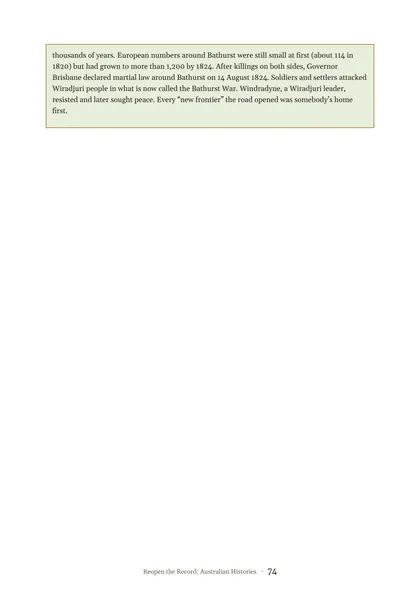
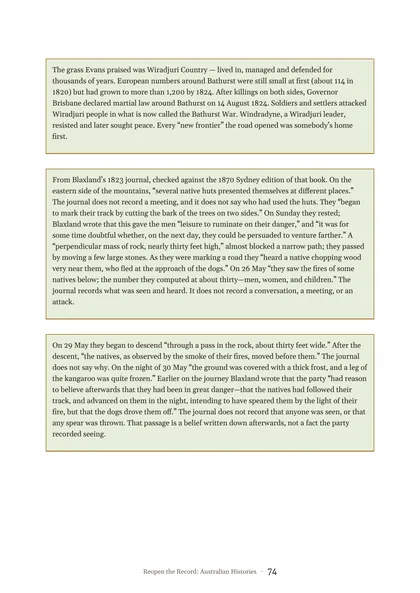
Add Blaxland journal details to the Blue Mountains case pages.
The case still runs from page 70 to 84; later page numbers are unchanged.

diff --git a/assets/data.js b/assets/data.js
@@ -1596,8 +1596,8 @@ window.BOOK = {
     "70": "The Blue Mountains envelope: Crossing the Blue Mountains, 1813. A manila exhibit envelope with a label asking “Who really found the way across the Blue Mountains — and what did “opening the interior” open up?”.",
     "71": "Page 71. Crossing the Blue Mountains. IMAGINED Written for this case, based on real events, not a real document. West of Sydney, looking at the mountains May 1813 · a reconstruction · not a historical document From the colony, the Blue",
     "72": "Page 72. Crossing the Blue Mountains. A NOTE BEFORE YOU READ This case is set on Darug, Gundungurra and Wiradjuri Country. It discusses colonisation, dispossession and the Bathurst War, and it names people who have died. Aboriginal and",
-    "73": "Page 73. Crossing the Blue Mountains. Lawson, a trained surveyor, recorded compass bearings, times and distances so that others could retrace the track. On 29 May they descended into what Lawson called “a fine grazing Country.” They",
-    "74": "Page 74. Crossing the Blue Mountains. thousands of years. European numbers around Bathurst were still small at first (about 114 in 1820) but had grown to more than 1,200 by 1824. After killings on both sides, Governor Brisbane declared",
+    "73": "Page 73. Crossing the Blue Mountains. The party succeeded where earlier official expeditions had failed by keeping to the main dividing ridge between the Grose River and the Western (Coxs) River, and not dropping into the valleys. Each",
+    "74": "Page 74. Crossing the Blue Mountains. The grass Evans praised was Wiradjuri Country — lived in, managed and defended for thousands of years. European numbers around Bathurst were still small at first (about 114 in 1820) but had grown to",
     "75": "Page 75. Crossing the Blue Mountains. Three witnesses CROSSING THE BLUE MOUNTAINS, 1813 · ASK Each witness is a real person, or a real set of words from the record. A period portrait is used where one exists and is free to reuse.",
     "76": "Page 76. Crossing the Blue Mountains. William Lawson Trained surveyor on the 1813 expedition · Journal of an Expedition Across the Blue Mountains, 11 May–6 June 1813 He logged bearings, times and distances each day. Because he wrote down",
     "77": "Page 77. Crossing the Blue Mountains. The old routes Published accounts of Darug and Gundungurra knowledge of the mountains · and archaeology at Dargan Shelter The third witness never wrote a journal for 1813, because the knowledge was",
@@ -1607,7 +1607,7 @@ window.BOOK = {
     "81": "Page 81. Crossing the Blue Mountains. STILL IN DISPUTE, OR ADDED LATER 4. Sure, maybe, or a guess? Sort each claim. “Blaxland, Lawson and Wentworth were the first people ever to cross the Blue Mountains.” “Lawson’s bearings made the",
     "82": "Page 82. Crossing the Blue Mountains. Teacher Note CROSSING THE BLUE MOUNTAINS, 1813 · YEAR 9 · TEACHER NOTE This note is for the teacher. It is not a student page. What’s true about the opener This note is not part of the student page.",
     "83": "Page 83. Crossing the Blue Mountains. Pictures The three witness pictures are plain document or path silhouettes with a name card, not likenesses of anyone. No photograph of a deceased person is used, and no rock art is shown. A",
-    "84": "Page 84. Crossing the Blue Mountains. (where it disagrees with the journals, the journals are preferred). “The earliest evidence of high- elevation ice age occupation in Australia,” Nature Human Behaviour, 16 June 2025. Australian",
+    "84": "Page 84. Crossing the Blue Mountains. does not invent the thoughts, choices or words of Darug, Gundungurra or Wiradjuri people, and it is not evidence. The investigation proper begins with the envelope page that follows. The paintings",
     "85": "Eliza Fraser envelope: Eliza Fraser and the wreck of the Stirling Castle, K’gari, 1836.",
     "86": "Page 86. Eliza Fraser. IMAGINED Written for this case, based on real events, not a real document. Great Sandy Island, early July 1836 We have been on this sand for nearly three weeks now. The longboat is useless. Six of",
     "87": "Page 87. Eliza Fraser. ELIZA FRASER Read the letter as an interactive book Open the case on a tablet or phone. It is the same letter you have just read, as an interactive book. robmac10.github.io/eliza-fraser-case Scan to",
@@ -1918,9 +1918,9 @@ window.BOOK = {
     "65": "Page 65. Protection. quotations on the student page; the deputation’s date, members, and asks follow the Australian Dictionary of Biography and the museum caption of the 1928 photograph. Collier’s “great obligation” line should be checked in those papers before it is taught as a confirmed quotation. Neville’s 1937 sentences are sometimes shortened; this file uses the official report. Moore River’s later history, and family testimony, go beyond this file and should not be invented to fill the gap. Pictures Arthur Phillip: portrait by Francis Wheatley, 1786, Mitchell Library collection, via Wikimedia Commons. Public domain. A. O. Neville: photograph as printed in The Daily News (Perth), 31 July 1936. Public domain in Australia (taken and published before 1 January 1955). William Harris: the 1928 deputation photograph, Freshwater Bay Museum 07.99, public domain in Australia (taken before 1 January 1955). The caption identifies the front row, left to right, as Edward Harris and William Harris. No likeness has been invented. No photographs of children, and no photographs of human remains, are used. Resources Students can also read the typographic page as an interactive book, on a tablet or phone. The page on screen is the same typographic setting as the pages in this book. Use it in class, or send the link home. The QR code uses a split-shield emblem at the centre. Interactive book and Super Sleuths: robmac10.github.io/protection-case/#sleuth Governor Phillip’s Instructions, 25 April 1787: Documenting a Democracy / National Archives of Australia, foundingdocs.gov.au, with a copy in the Historical Records of Australia. Aborigines Act 1905 (WA), No. 14 of 1905, official statute text (and note the 1911 amendment, No. 42 of 1911). Aboriginal Welfare: Initial Conference of Commonwealth and State Aboriginal Authorities, Canberra, 21–23 April 1937, Commonwealth Government Printer (Neville’s speech and the conference resolutions). Australian Dictionary of Biography, “Harris, William (1867–1931).” The West Australian and The Daily News, March 1928, for the deputation (check word for word). AIATSIS, including guidance for teaching Aboriginal and Torres Strait Islander histories, and the 1937 conference report in its collections. Find & Connect, Aborigines Act 1905 (WA) and Chief Protector of Aborigines (WA). Bringing Them Home (1997) is a later national inquiry. It is told in Book Four, not in this file. Reopen the Record: Australian Histories · 65",
     "70": "Page 70. Crossing the Blue Mountains. ",
     "71": "Page 71. Crossing the Blue Mountains. IMAGINED Written for this case, based on real events, not a real document. West of Sydney, looking at the mountains May 1813 · a reconstruction · not a historical document From the colony, the Blue Mountains look like a wall. Maps of the settled country end there, as if the land itself stopped. It did not stop. People had been crossing those ridges for thousands of years. The question was never whether a way across existed. The question was who knew it, who got the credit for “finding” it — and what came through the gap once it was opened. Three names would later be carved on the monuments: Blaxland, Lawson, Wentworth. This file tests whether the record supports the carving. (The opening scene is a reconstruction. The journals, the dates and the later road are from the records. See Teacher Note.) Reopen the Record: Australian Histories · 71",
-    "72": "Page 72. Crossing the Blue Mountains. A NOTE BEFORE YOU READ This case is set on Darug, Gundungurra and Wiradjuri Country. It discusses colonisation, dispossession and the Bathurst War, and it names people who have died. Aboriginal and Torres Strait Islander readers may wish to take care. No photographs of deceased people are used. A note for teachers is at the end of the case. CROSSING THE BLUE MOUNTAINS, 1813 · READ Crossing the Blue Mountains, 1813 Who really found the way across the Blue Mountains — and what did “opening the interior” open up? What is agreed Green on this page marks what can be agreed. Amber, used in Super Sleuths, marks what is still disputed or was added later. On Tuesday 11 May 1813, Gregory Blaxland, William Lawson and William Charles Wentworth left Blaxland’s farm at South Creek with four men, four horses and five dogs. Later official and museum accounts name one of the four men as James Burns (also written Burne or Byrnes). That afternoon they crossed the Nepean River at Emu Island (Lawson wrote “Emma Island,” at Mr Chapman’s farm). They returned on 6 June 1813, “all in good health.” From Sydney the Blue Mountains look like a single blue wall. They are a high sandstone plateau cut by gorges and cliff-walled valleys. For 25 years after 1788 the colony of New South Wales stayed on the Cumberland Plain, because nobody sent from Sydney could find a European way through. George Bass tried in 1796 with ropes and climbing irons. Francis Barrallier pushed in from the south in 1802. After his own 1804 attempt, botanist George Caley later told a committee in London that the range was impassable. By 1813 grazing land around Sydney was scarce, the Cumberland Plain was overstocked, and drought had tightened the grip. This was a search for pasture, not exploration for science. The party succeeded where earlier official expeditions had failed by keeping to the main dividing ridge between the Grose River and the Western (Coxs) River, and not dropping into the valleys. Each day they went ahead on foot, cut scrub so the horses could pass, and marked the line. Reopen the Record: Australian Histories · 72",
-    "73": "Page 73. Crossing the Blue Mountains. Lawson, a trained surveyor, recorded compass bearings, times and distances so that others could retrace the track. On 29 May they descended into what Lawson called “a fine grazing Country.” They rested on 30 May. On 31 May they went further west, then turned for home. Lawson’s reason is plain: “our shoes worn out and provisions nearly Expended Obliged us to Return home.” They had found and marked a workable ridge route to the edge of the interior. They had not gone on to the site of Bathurst. In his published journal of 1823, Blaxland wrote that from a sugar-loaf hill later named Mount Blaxland they could see “enough grass to support the stock of the colony for thirty years.” Governor Lachlan Macquarie sent Assistant Surveyor George Evans to check the route and push beyond it. Evans’s journal begins on 19 November 1813, at the Nepean. On 26 November he camped near the foot of a mount he named Mount Blaxland — “the termination of the excursion” of Blaxland, Lawson and Wentworth — and wrote that the feed was “better than any I have seen in New South Wales.” On 9 December 1813 he reached the site of present-day Bathurst (he named the Bathurst Plains the following day). Evans’s party were the first colonists recorded as completing the crossing of the Great Dividing Range to that site. James Burns, who had been with the May party, also went with Evans. Macquarie rewarded Blaxland, Lawson and Wentworth with 1,000 acres each, then ordered a road. William Cox’s party — mostly convict labourers — built about 163 kilometres (101½ miles) of road from Emu Ford to Bathurst between 18 July 1814 and 14 January 1815, including the steep descent at Mount York. In April–May 1815 Macquarie travelled the road himself and, on 7 May 1815, proclaimed Bathurst, the colony’s first inland town. Lawson is reputed to have taken the first stock across in July 1815 (State Library of New South Wales). Darug, Gundungurra and neighbouring peoples had lived in and crossed the Blue Mountains long before 1813. Published museum accounts record at least two main First Nations routes across the range. The 1813 journals say little about those routes; later official and museum accounts identify James Burns as a man in the party who knew “the bush and its Aboriginal pathways.” The journals do not, by themselves, prove exactly which pathway the party was on. The grass Evans praised was Wiradjuri Country — lived in, managed and defended for Reopen the Record: Australian Histories · 73",
-    "74": "Page 74. Crossing the Blue Mountains. thousands of years. European numbers around Bathurst were still small at first (about 114 in 1820) but had grown to more than 1,200 by 1824. After killings on both sides, Governor Brisbane declared martial law around Bathurst on 14 August 1824. Soldiers and settlers attacked Wiradjuri people in what is now called the Bathurst War. Windradyne, a Wiradjuri leader, resisted and later sought peace. Every “new frontier” the road opened was somebody’s home first. Reopen the Record: Australian Histories · 74",
+    "72": "Page 72. Crossing the Blue Mountains. A NOTE BEFORE YOU READ This case is set on Darug, Gundungurra and Wiradjuri Country. It discusses colonisation, dispossession and the Bathurst War, and it names people who have died. Aboriginal and Torres Strait Islander readers may wish to take care. No photographs of deceased people are used. A note for teachers is at the end of the case. CROSSING THE BLUE MOUNTAINS, 1813 · READ Crossing the Blue Mountains, 1813 Who really found the way across the Blue Mountains — and what did “opening the interior” open up? What is agreed Green on this page marks what can be agreed. Amber, used in Super Sleuths, marks what is still disputed or was added later. On Tuesday 11 May 1813, Gregory Blaxland, William Lawson and William Charles Wentworth left Blaxland’s farm at South Creek with four men, four horses and five dogs. Later official and museum accounts name one of the four men as James Burns (also written Burne or Byrnes). That afternoon they crossed the Nepean River at Emu Island (Lawson wrote “Emma Island,” at Mr Chapman’s farm). The ford there was a shallow crossing, later often called Emu Ford. Emu Island itself is no longer there. They returned on 6 June 1813, “all in good health.” From Sydney the Blue Mountains look like a single blue wall. They are a high sandstone plateau cut by gorges and cliff-walled valleys. For 25 years after 1788 the colony of New South Wales stayed on the Cumberland Plain, because nobody sent from Sydney could find a European way through. George Bass tried in 1796 with ropes and climbing irons. Francis Barrallier pushed in from the south in 1802. After his own 1804 attempt, botanist George Caley later told a committee in London that the range was impassable. By 1813 grazing land around Sydney was scarce, the Cumberland Plain was overstocked, and drought had tightened the grip. This was a search for pasture, not exploration for science. The journals do not say the colony’s cattle were starving, and they do not say sheep ate the grass “roots and all.” Reopen the Record: Australian Histories · 72",
+    "73": "Page 73. Crossing the Blue Mountains. The party succeeded where earlier official expeditions had failed by keeping to the main dividing ridge between the Grose River and the Western (Coxs) River, and not dropping into the valleys. Each day they went ahead on foot, cut scrub so the horses could pass, and marked the line. Lawson, a trained surveyor, recorded compass bearings, times and distances so that others could retrace the track. On 29 May they descended into what Lawson called “a fine grazing Country.” They rested on 30 May. On 31 May they went further west, then turned for home. Lawson’s reason is plain: “our shoes worn out and provisions nearly Expended Obliged us to Return home.” Blaxland’s 1823 journal records the same shortages, and adds that “the whole party were ill with bowel complaints.” They had found and marked a workable ridge route to the edge of the interior. They had not gone on to the site of Bathurst. In his published journal of 1823, Blaxland wrote that from a sugar-loaf hill later named Mount Blaxland they could see “enough grass to support the stock of the colony for thirty years.” Governor Lachlan Macquarie sent Assistant Surveyor George Evans to check the route and push beyond it. Evans’s journal begins on 19 November 1813, at the Nepean. On 26 November he camped near the foot of a mount he named Mount Blaxland — “the termination of the excursion” of Blaxland, Lawson and Wentworth — and wrote that the feed was “better than any I have seen in New South Wales.” On 9 December 1813 he reached the site of present-day Bathurst (he named the Bathurst Plains the following day). Evans’s party were the first colonists recorded as completing the crossing of the Great Dividing Range to that site. James Burns, who had been with the May party, also went with Evans. Macquarie rewarded Blaxland, Lawson and Wentworth with 1,000 acres each, then ordered a road. William Cox’s party — mostly convict labourers — built about 163 kilometres (101½ miles) of road from Emu Ford to Bathurst between 18 July 1814 and 14 January 1815, including the steep descent at Mount York. In April–May 1815 Macquarie travelled the road himself and, on 7 May 1815, proclaimed Bathurst, the colony’s first inland town. Lawson is reputed to have taken the first stock across in July 1815 (State Library of New South Wales). Darug, Gundungurra and neighbouring peoples had lived in and crossed the Blue Mountains long before 1813. Published museum accounts record at least two main First Nations routes across the range. The 1813 journals say little about those routes; later official and museum accounts identify James Burns as a man in the party who knew “the bush and its Aboriginal pathways.” The journals do not, by themselves, prove exactly which pathway the party was on. Reopen the Record: Australian Histories · 73",
+    "74": "Page 74. Crossing the Blue Mountains. The grass Evans praised was Wiradjuri Country — lived in, managed and defended for thousands of years. European numbers around Bathurst were still small at first (about 114 in 1820) but had grown to more than 1,200 by 1824. After killings on both sides, Governor Brisbane declared martial law around Bathurst on 14 August 1824. Soldiers and settlers attacked Wiradjuri people in what is now called the Bathurst War. Windradyne, a Wiradjuri leader, resisted and later sought peace. Every “new frontier” the road opened was somebody’s home first. From Blaxland’s 1823 journal, checked against the 1870 Sydney edition of that book. On the eastern side of the mountains, “several native huts presented themselves at different places.” The journal does not record a meeting, and it does not say who had used the huts. They “began to mark their track by cutting the bark of the trees on two sides.” On Sunday they rested; Blaxland wrote that this gave the men “leisure to ruminate on their danger,” and “it was for some time doubtful whether, on the next day, they could be persuaded to venture farther.” A “perpendicular mass of rock, nearly thirty feet high,” almost blocked a narrow path; they passed by moving a few large stones. As they were marking a road they “heard a native chopping wood very near them, who fled at the approach of the dogs.” On 26 May “they saw the fires of some natives below; the number they computed at about thirty—men, women, and children.” The journal records what was seen and heard. It does not record a conversation, a meeting, or an attack. On 29 May they began to descend “through a pass in the rock, about thirty feet wide.” After the descent, “the natives, as observed by the smoke of their fires, moved before them.” The journal does not say why. On the night of 30 May “the ground was covered with a thick frost, and a leg of the kangaroo was quite frozen.” Earlier on the journey Blaxland wrote that the party “had reason to believe afterwards that they had been in great danger—that the natives had followed their track, and advanced on them in the night, intending to have speared them by the light of their fire, but that the dogs drove them off.” The journal does not record that anyone was seen, or that any spear was thrown. That passage is a belief written down afterwards, not a fact the party recorded seeing. Reopen the Record: Australian Histories · 74",
     "75": "Page 75. Crossing the Blue Mountains. Three witnesses CROSSING THE BLUE MOUNTAINS, 1813 · ASK Each witness is a real person, or a real set of words from the record. A period portrait is used where one exists and is free to reuse. Otherwise you will see a plain silhouette, not a likeness. Ask the same three questions of each. Gregory Blaxland Organiser of the 1813 expedition · A Journal of a Tour of Discovery Across the Blue Mountains, New South Wales, in the Year 1813, London, B. J. Holdsworth, 1823 He helped organise the expedition and wrote the account that was published first, and most widely read. What they said A document silhouette, not a facsimile. The witness is the published journal. From a sugar-loaf hill later named Mount Blaxland, the 1823 journal says they could see “enough grass to support the stock of the colony for thirty years.” The book is firsthand on the route and the ridge method, but it is also a public claim, written long after the event, when Blaxland was in England. As early as 1816 he claimed to have been the leader; contemporary records suggest the effort was a joint one. Could they have seen it? Yes, for the route they travelled and for what they said they saw from that hill. He was there in May 1813. But the book was printed in 1823, and it is weak where it is silent: the servants who cut the track, and the Aboriginal pathways of the mountains, barely appear. Why might they say it? He wanted land and grass for stock, and later a public claim to have led the way. Ask how a journal published ten years later, in another country, might differ from a daily log written on the track. Source. Gregory Blaxland, A Journal of a Tour of Discovery Across the Blue Mountains, New South Wales, in the Year 1813 (London: B. J. Holdsworth, 1823). State Library of New South Wales; Australian Dictionary of Biography, “Blaxland, Gregory.” The book was published ten years after the expedition. What did they say they saw? · Could they really have seen it? · Why might they say it? Reopen the Record: Australian Histories · 75",
     "76": "Page 76. Crossing the Blue Mountains. William Lawson Trained surveyor on the 1813 expedition · Journal of an Expedition Across the Blue Mountains, 11 May–6 June 1813 He logged bearings, times and distances each day. Because he wrote down how they travelled, Evans could retrace the track months later and Cox could build a road on it. What they said A document silhouette, not a facsimile. The witness is the journal. On 11 May: “Mr. Blaxland Wentworth and myself with four men and four Horses- Laden with Provisions etc- took our Departure on Tuesday the 11th May 1813. Crossed the Nepean River at Mr. Chapman’s Farm Emma Island at four oclock…” On 29–31 May: “we have now Entered a fine grazing Country… our shoes worn out and provisions nearly Expended Obliged us to Return home… this Country will I have no doubt be a great acquisition to this Colony and no difficulty in making a good Road to it… if in case of our Invasion it will be a safe Retreat…” They reached home on 6 June, “all in good health.” On 13 May he also noted “several Camps of Native Huts.” Could they have seen it? Yes, for the dates, the crossing place, the bearings and the reason they turned back. He was writing as they went. A daily log can still miss what the writer did not choose to record — including how much the party owed to pathways already used in the mountains. Why might they say it? He was the expedition’s technical witness, making a route that others could follow. He also wrote about grass, a future road, and a “safe Retreat” if the colony were invaded. Ask what a surveyor’s journal is for, and what it leaves out. Source. William Lawson, Journal of an Expedition Across the Blue Mountains, 11 May–6 June 1813. Transcript, State Library of New South Wales. Written on the journey, not for later publication. Spelling follows the transcript. What did they say they saw? · Could they really have seen it? · Why might they say it? Reopen the Record: Australian Histories · 76",
     "77": "Page 77. Crossing the Blue Mountains. The old routes Published accounts of Darug and Gundungurra knowledge of the mountains · and archaeology at Dargan Shelter The third witness never wrote a journal for 1813, because the knowledge was carried in story, song and practice. This file uses published accounts only. What they said A path silhouette, not a map of Country. The witness is published knowledge, not a secret or sacred account. The National Museum of Australia records that Gundungurra, Dharawal, Wiradjuri, Wanaruah, Darug and Darkinjung peoples used two main routes across the mountains, and that the 1813 party was accompanied by James Burns, “a local guide familiar with the bush and its Aboriginal pathways.” Stone tools and hearths at Dargan Shelter show people were living at high elevation around 20,000 years ago. That site sits near the Bilpin Ridge / Bells Line of Road — a known mountain corridor, but not the same line as the 1813 ridge, which later became Cox’s Road. Could they have seen it? The museum account is a later summary, not a journal from 1813. The archaeology shows a deep presence in the mountains; it does not prove that the 1813 alignment itself has been dated to 20,000 years. This witness does not deny the 1813 achievement. It reframes it: the party found a route that was new to official European record, in a range that was already known, used and named. Why might they say it? Published museum and archaeological records are being asked to stand in for knowledge that was not written down for a colonial archive. Ask what is missing when the only daily journals are those of the three named leaders. Source. National Museum of Australia, Defining Moments, “Blue Mountains crossing.” Archaeology: “The earliest evidence of high-elevation ice age occupation in Australia,” Nature Human Behaviour, 16 June 2025 — Dargan Shelter, Darug Country, near the Bells Line of Road / Bilpin Ridge, occupation around 20,000 years ago. No secret or sacred material is used, and no rock art or photographs of deceased people are shown. What did they say they saw? · Could they really have seen it? · Why might they say it? Reopen the Record: Australian Histories · 77",
@@ -1929,8 +1929,8 @@ window.BOOK = {
     "80": "Page 80. Crossing the Blue Mountains. CROSSING THE BLUE MOUNTAINS, 1813 · SUPER SLEUTHS Super Sleuths Go further only if you want to. Amber marks what is still disputed, or what later writers added. Work on paper. Each investigation names the records, or the kind of record, to look for. STILL IN DISPUTE, OR ADDED LATER 1. The ridge method Earlier expeditions followed the rivers and failed; the 1813 party followed the ridges and succeeded. Using Lawson’s journal (State Library of New South Wales transcript), explain in your own words why the ridge method worked in this landscape. Hint: Lawson kept to “the main Ridge between the Groce and western River,” and on 22 May he recorded an “impassable Clift” that stopped them going south or west. Question. What does a daily string of compass bearings prove, that a later published book might not? WHAT THE RECORDS SHOW 2. Evidence for: what the 1813–1815 records show 1. The departure on 11 May 1813, the Emu Island crossing, and the return on 6 June, in Lawson’s journal. 2. How far they went, and that Evans reached the Bathurst site on 9 December 1813, in Evans’s journal. 3. Cox’s road, 18 July 1814 to 14 January 1815, and Macquarie’s proclamation of Bathurst on 7 May 1815, in official and museum accounts. Question. Which of these could you check yourself, and where? WHAT THE RECORDS DO NOT SHOW 3. Evidence against: what the records do not show 1. That the mountains were unknown, or that 1813 was a “discovery”: the journals prove a recorded, repeatable European ridge route, not that nobody had crossed before. 2. Exactly which Aboriginal pathway the party was on: later accounts name James Burns as a guide who knew those pathways, but the three leaders’ journals say little about them. 3. How Wiradjuri people understood Evans’s arrival, or the coming of the road. Question. Why might a gap in the records matter as much as what is in them? Reopen the Record: Australian Histories · 80",
     "81": "Page 81. Crossing the Blue Mountains. STILL IN DISPUTE, OR ADDED LATER 4. Sure, maybe, or a guess? Sort each claim. “Blaxland, Lawson and Wentworth were the first people ever to cross the Blue Mountains.” “Lawson’s bearings made the route repeatable.” “Evans reached the site of Bathurst in December 1813.” “The 1813 party followed one named Aboriginal track, and we can point to it on a modern map.” For each one, write Sure, Maybe or Guess, and the record that decides it. Question. Which claim can no record in this file settle, and why? Reopen the Record: Australian Histories · 81",
     "82": "Page 82. Crossing the Blue Mountains. Teacher Note CROSSING THE BLUE MOUNTAINS, 1813 · YEAR 9 · TEACHER NOTE This note is for the teacher. It is not a student page. What’s true about the opener This note is not part of the student page. The opening scene is a reconstruction and carries an Imagined badge. No particular viewer, map or day is meant. What is true behind it: from the Cumberland Plain the mountains did look like a wall to the Sydney colony; people had been crossing the range long before 1813; and the names later carved on monuments were Blaxland, Lawson and Wentworth. Dates, quotations and outcomes on the student pages are from the journals and the official or museum summaries listed under Sources. Care this case needs This case is set on Darug, Gundungurra and Wiradjuri Country. It was built from published sources only and has not involved consultation with those communities. Gundungurra and Darug accounts of mountain routes are referred to only in general terms from published material; no secret or sacred material is used. Invite local Aboriginal perspectives where possible, follow school protocols, and present the Bathurst War content with care for students with connections to those events. Aboriginal and Torres Strait Islander readers are advised that these pages discuss colonisation, violence and dispossession, and name people who have died. No photographs of deceased people are used. Do not ask students to role-play the dead, or to decide that the crossing was simply a triumph or simply a crime. Curriculum Australian Curriculum v9. Year 9 History, Making a nation: AC9HH9K03 (the extension of settlement and its effects) and AC9HH9K06 (the effects of colonisation on Aboriginal and Torres Strait Islander Peoples), as background to the Bathurst War and Windradyne. The file also suits Year 4 (First Nations histories and the arrival of Europeans) and Year 5 (the Australian colonies and expansion beyond Sydney). Skills: comparing primary sources (the journals), identifying perspectives and silences, and testing a “great event” narrative against evidence. Year levels and codes stay in this Teacher Note; they are not printed on the student pages. This case can be paired with a later study of Windradyne and the Bathurst War. Placement In this chronological book the case is placed by the departure of 11 May 1813. It follows Protection, which is framed by the 1787 instructions, and comes before Eliza Fraser (1836). Myall Creek (1824–1838) remains a separate case app, not printed in this book. Reopen the Record: Australian Histories · 82",
-    "83": "Page 83. Crossing the Blue Mountains. Pictures The three witness pictures are plain document or path silhouettes with a name card, not likenesses of anyone. No photograph of a deceased person is used, and no rock art is shown. A writing-draft illustration of the 1813 party on the ridge invented likenesses of real people and is not used here. The cover-story paintings (a fire, flowers and stones on a ledge, and a view west over grass country) are an artist’s impression, not a record; the traces picture shows no people. Source conflicts, flagged The National Museum of Australia’s Defining Moments page, which is otherwise useful, dates the departure as 18 May 1813 from Emu Plains, and can be read as adding Burns on top of four convict servants. The journals say Tuesday 11 May 1813, four men, four horses. This file follows the journals, and treats Burns as named in later official and museum accounts as one of the four, not a fifth man. Lawson’s 11 May crossing is at “Mr. Chapman’s Farm Emma Island,” which is Emu Island (later often called Emu Ford). They turned back because shoes and provisions were nearly gone, not because the men were unwell; they arrived “all in good health.” Evans named Mount Blaxland on 26 November as the termination of their excursion; the May party entered “a fine grazing Country” on 29 May. His grass remark is “better than any I have seen in New South Wales.” The 1813 party travelled the Grose–Coxs dividing ridge (later Cox’s Road). Dargan Shelter, with occupation around 20,000 years ago, sits near the Bilpin Ridge / Bells Line of Road, a different corridor: it is evidence of deep-time presence, not proof of the 1813 alignment. Settler numbers around Bathurst: about 114 Europeans in 1820, more than 1,200 by 1824. Martial law: 14 August 1824. Lawson’s July 1815 stock crossing is described by the State Library of New South Wales as reputed. John Wilson’s unofficial 1790s mountain travel is left unsettled; his documented 1798 journey went south-west through the Southern Highlands. Evans later judged the 1813 termination to be “at least 50 Miles”; exact walkingdistance figures from an earlier draft are omitted. Wentworth’s journal is at the State Library and is used here only as context that a third journal exists; student quotations are from Lawson and Blaxland, which were checked line by line. Caley’s later remark to a London committee, and Bass’s ropes and climbing irons, are from standard official or museum accounts, not from a line-by-line reading of those original papers in this file. The cover story The case opens with Crossing the Blue Mountains: a story, labelled Historical fiction, not a record. It is a short telling from the crossing journals and the settlers’ point of view. The Gundungurra side is given only as the journals record it — fires left the day before, honeysuckle flowers, and stones used to sharpen spears, on the western side of the mountains. The story does not invent the thoughts, choices or words of Darug, Gundungurra or Wiradjuri people, and it is not evidence. The investigation proper begins with the envelope page that follows. The paintings are an artist’s impression of the traces and the plains, not historical photographs. No people are shown in the traces picture, and no rock art is used. Reopen the Record: Australian Histories · 83",
-    "84": "Page 84. Crossing the Blue Mountains. Sources Primary. William Lawson, Journal of an Expedition Across the Blue Mountains, 11 May–6 June 1813, transcript, State Library of New South Wales. Gregory Blaxland, A Journal of a Tour of Discovery Across the Blue Mountains, New South Wales, in the Year 1813 (London: B. J. Holdsworth, 1823). William Charles Wentworth’s journal of the expedition, State Library of New South Wales transcript (context only). George William Evans, journal of the journey to the Bathurst Plains, 19 November 1813 onwards, enclosed in Macquarie’s despatch and printed in Historical Records of Australia, series I, vol. 8. Reference. Museums of History NSW, “Westward, Ho! Crossing the Blue Mountains.” State Library of New South Wales, “Macquarie’s crossing.” NSW Government, Cox’s Road Interpretive Trail (18 July 1814 – 14 January 1815, about 163 km). National Museum of Australia, Defining Moments, “Blue Mountains crossing” (where it disagrees with the journals, the journals are preferred). “The earliest evidence of highelevation ice age occupation in Australia,” Nature Human Behaviour, 16 June 2025. Australian Dictionary of Biography, Gregory Blaxland; State Library of New South Wales notes on Lawson. Resources There is no separate app for this case. Students can read Lawson’s journal transcript and Blaxland’s 1823 journal on the State Library of New South Wales website, and a short outline of the crossing in the Book One timeline at robmac10.github.io/the-story-contents/book-one/. The case is in this casebook reader. State Library of NSW, Lawson journal transcript and Blaxland, A Journal of a Tour of Discovery (1823); Museums of History NSW, “Westward, Ho! Crossing the Blue Mountains”; NMA, Defining Moments, “Blue Mountains crossing” (check departure date and party size against the journals); Evans in Historical Records of Australia, series I, vol. 8; Nature Human Behaviour, 16 June 2025 (Dargan Shelter — no image of the site is used here). Australian Curriculum v9, Year 9 History, AC9HH9K03, AC9HH9K06. Reopen the Record: Australian Histories · 84",
+    "83": "Page 83. Crossing the Blue Mountains. Pictures The three witness pictures are plain document or path silhouettes with a name card, not likenesses of anyone. No photograph of a deceased person is used, and no rock art is shown. A writing-draft illustration of the 1813 party on the ridge invented likenesses of real people and is not used here. The cover-story paintings (a fire, flowers and stones on a ledge, and a view west over grass country) are an artist’s impression, not a record; the traces picture shows no people. Source conflicts, flagged The National Museum of Australia’s Defining Moments page, which is otherwise useful, dates the departure as 18 May 1813 from Emu Plains, and can be read as adding Burns on top of four convict servants. The journals say Tuesday 11 May 1813, four men, four horses. This file follows the journals, and treats Burns as named in later official and museum accounts as one of the four, not a fifth man. Lawson’s 11 May crossing is at “Mr. Chapman’s Farm Emma Island,” which is Emu Island (later often called Emu Ford). Lawson’s reason for turning back is worn shoes and nearly expended provisions; Blaxland also records those shortages, and adds that “the whole party were ill with bowel complaints.” They still reached home “all in good health.” Blaxland’s later “reason to believe afterwards” that people had come near the camp at night is a belief written down afterwards; the journal does not record that anyone was seen, or that a spear was thrown. Editorial notes in later printings of the journal (including notes dated 1913) are not Blaxland’s words, and they are not quoted on the student pages. Emu Island itself is no longer there. Evans named Mount Blaxland on 26 November as the termination of their excursion; the May party entered “a fine grazing Country” on 29 May. His grass remark is “better than any I have seen in New South Wales.” The 1813 party travelled the Grose–Coxs dividing ridge (later Cox’s Road). Dargan Shelter, with occupation around 20,000 years ago, sits near the Bilpin Ridge / Bells Line of Road, a different corridor: it is evidence of deep-time presence, not proof of the 1813 alignment. Settler numbers around Bathurst: about 114 Europeans in 1820, more than 1,200 by 1824. Martial law: 14 August 1824. Lawson’s July 1815 stock crossing is described by the State Library of New South Wales as reputed. John Wilson’s unofficial 1790s mountain travel is left unsettled; his documented 1798 journey went southwest through the Southern Highlands. Evans later judged the 1813 termination to be “at least 50 Miles”; exact walking-distance figures from an earlier draft are omitted. Wentworth’s journal is at the State Library and is used here only as context that a third journal exists; student quotations are from Lawson and Blaxland, which were checked line by line. Caley’s later remark to a London committee, and Bass’s ropes and climbing irons, are from standard official or museum accounts, not from a line-by-line reading of those original papers in this file. The cover story The case opens with Crossing the Blue Mountains: a story, labelled Historical fiction, not a record. It is a short telling from the crossing journals and the settlers’ point of view. The Gundungurra side is given only as the journals record it — fires left the day before, honeysuckle flowers, and stones used to sharpen spears, on the western side of the mountains. The story Reopen the Record: Australian Histories · 83",
+    "84": "Page 84. Crossing the Blue Mountains. does not invent the thoughts, choices or words of Darug, Gundungurra or Wiradjuri people, and it is not evidence. The investigation proper begins with the envelope page that follows. The paintings are an artist’s impression of the traces and the plains, not historical photographs. No people are shown in the traces picture, and no rock art is used. Sources Primary. William Lawson, Journal of an Expedition Across the Blue Mountains, 11 May–6 June 1813, transcript, State Library of New South Wales. Gregory Blaxland, A Journal of a Tour of Discovery Across the Blue Mountains, New South Wales, in the Year 1813 (London: B. J. Holdsworth, 1823). William Charles Wentworth’s journal of the expedition, State Library of New South Wales transcript (context only). George William Evans, journal of the journey to the Bathurst Plains, 19 November 1813 onwards, enclosed in Macquarie’s despatch and printed in Historical Records of Australia, series I, vol. 8. Reference. Museums of History NSW, “Westward, Ho! Crossing the Blue Mountains.” State Library of New South Wales, “Macquarie’s crossing.” NSW Government, Cox’s Road Interpretive Trail (18 July 1814 – 14 January 1815, about 163 km). National Museum of Australia, Defining Moments, “Blue Mountains crossing” (where it disagrees with the journals, the journals are preferred). “The earliest evidence of highelevation ice age occupation in Australia,” Nature Human Behaviour, 16 June 2025. Australian Dictionary of Biography, Gregory Blaxland; State Library of New South Wales notes on Lawson. Resources There is no separate app for this case. Students can read Lawson’s journal transcript and Blaxland’s 1823 journal on the State Library of New South Wales website, and a short outline of the crossing in the Book One timeline at robmac10.github.io/the-story-contents/book-one/. The case is in this casebook reader. State Library of NSW, Lawson journal transcript and Blaxland, A Journal of a Tour of Discovery (1823); Museums of History NSW, “Westward, Ho! Crossing the Blue Mountains”; NMA, Defining Moments, “Blue Mountains crossing” (check departure date and party size against the journals); Evans in Historical Records of Australia, series I, vol. 8; Nature Human Behaviour, 16 June 2025 (Dargan Shelter — no image of the site is used here). Australian Curriculum v9, Year 9 History, AC9HH9K03, AC9HH9K06. Reopen the Record: Australian Histories · 84",
     "85": "Eliza Fraser envelope.",
     "86": "Page 86. Eliza Fraser. IMAGINED Written for this case, based on real events, not a real document. Great Sandy Island, early July 1836 We have been on this sand for nearly three weeks now. The longboat is useless. Six of the men took what they could carry and walked south. They said they would find Moreton Bay. We have heard nothing. The people of this island came soon after we landed. They stood off at first, watching. When they saw we had little food left they came closer. One older man pointed at the pandanus and made the sign for eating. We gave him a brass button. He brought fish. Eliza is still with us. Her husband the Captain is weaker every day. The wound in his shoulder has not closed. She sits beside him most of the hours and does not speak much. When the women of the island come she turns her face away. They have tried to cover her arms and shoulders with a mixture of grease and charcoal. She will not let them. She says it is filthy. They shrug and leave her in the sun. Yesterday two of the men who stayed with us were taken away with a party of the island people. They went quietly. I do not know if they were asked or ordered. Eliza watched them go and said nothing. Later she told me, very low, that she believes we are prisoners. I asked her how she knew. She said, “They took our clothes. They make us carry wood. What else would you call it?” I said the men who left us on the beach took more than the island people have. She did not answer. This morning the Captain could not stand. Eliza held his head while he drank a little water the island women had brought in a shell. One of them stayed and watched. Eliza did not thank her. I am writing this on the back of a chart page. If anyone finds it, know that we are alive, that the island people have not killed us, and that Eliza Fraser believes we are captives. I am no longer certain what I believe. The light is going. The women are calling the children in. Eliza has not moved from her husband’s side. C. Brown Reopen the Record: Australian Histories · 86",
     "87": "Page 87. Eliza Fraser. ELIZA FRASER Read the letter as an interactive book Open the case on a tablet or phone. It is the same letter you have just read, as an interactive book. robmac10.github.io/eliza-fraser-case Scan to open Then turn the page and open the case file. Reopen the Record: Australian Histories · 87",

diff --git a/index.html b/index.html
@@ -14,9 +14,9 @@
   <meta property="og:url" content="https://robmac10.github.io/reopen-the-record/">
   <meta property="og:image" content="https://robmac10.github.io/reopen-the-record/assets/thumbs/p001.webp">
   <link rel="icon" href="assets/favicon.svg" type="image/svg+xml">
-  <link rel="stylesheet" href="assets/style.css?v=20261127d">
-  <link rel="stylesheet" href="assets/image-fit.css?v=20261127d">
-  <link rel="stylesheet" href="assets/story.css?v=20261127d">
+  <link rel="stylesheet" href="assets/style.css?v=20261127e">
+  <link rel="stylesheet" href="assets/image-fit.css?v=20261127e">
+  <link rel="stylesheet" href="assets/story.css?v=20261127e">
 </head>
 <body>
   <a class="skip" href="#main">Skip to the main content</a>
@@ -171,7 +171,7 @@
     <p style="padding:1em;text-align:center">This book needs JavaScript to turn the pages. The intended address is https://robmac10.github.io/reopen-the-record/</p>
   </noscript>
 
-  <script src="assets/data.js?v=20261127d"></script>
-  <script src="assets/app.js?v=20261127d"></script>
+  <script src="assets/data.js?v=20261127e"></script>
+  <script src="assets/app.js?v=20261127e"></script>
 </body>
 </html>
